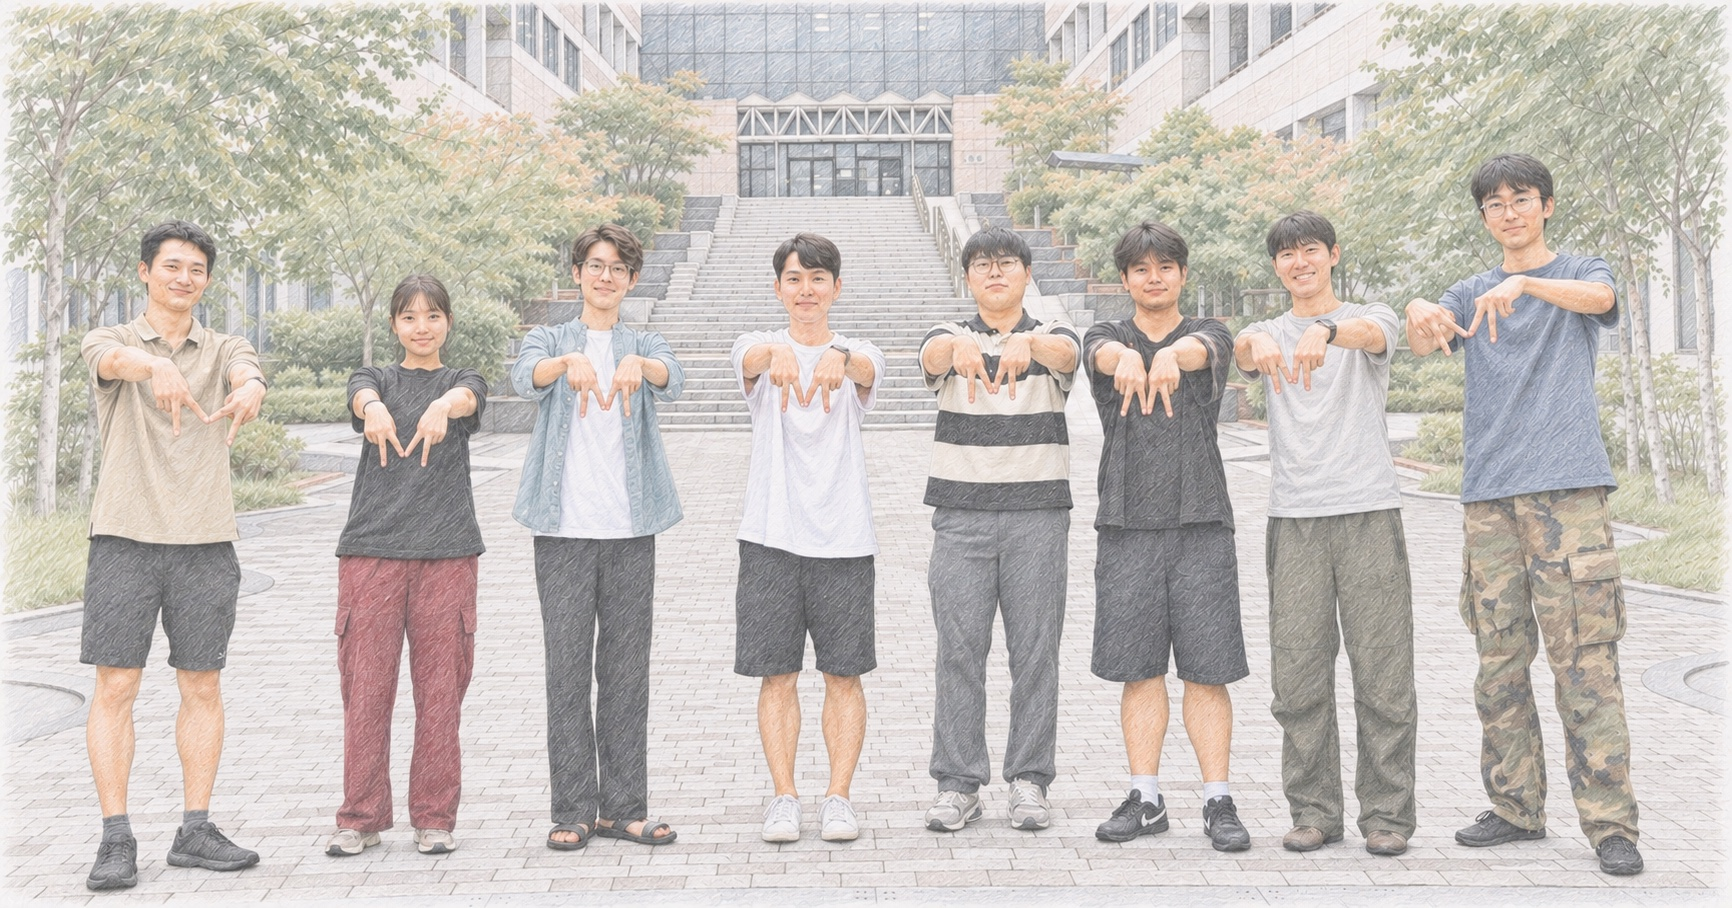
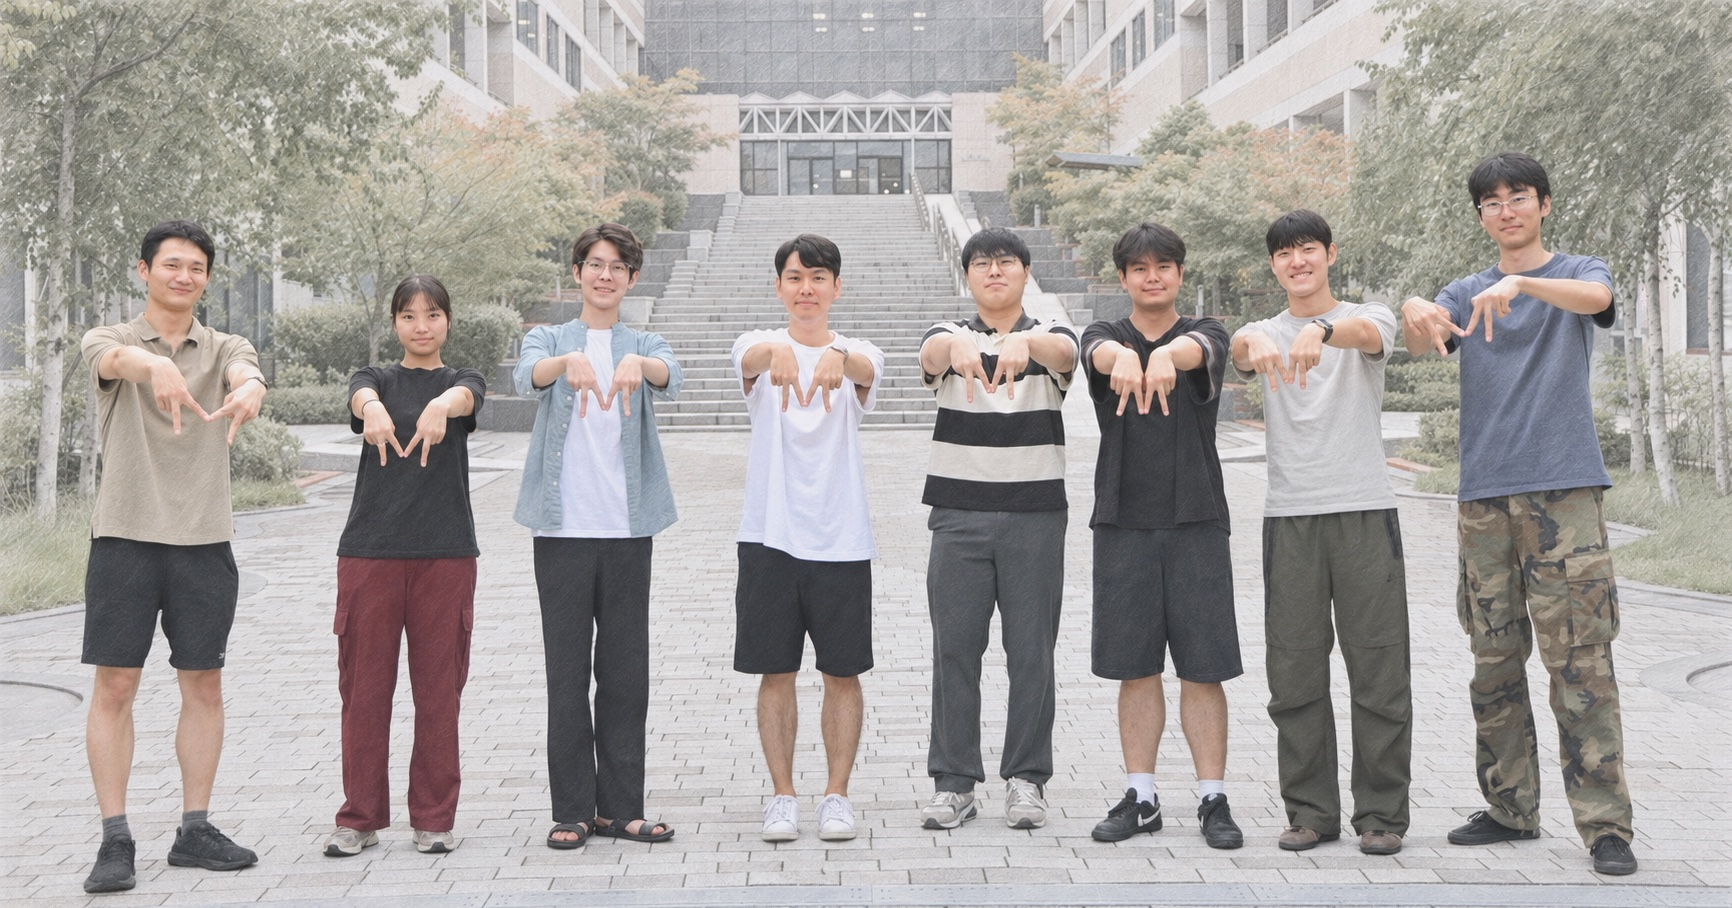
Keep home photo closer to original faces

diff --git a/AGENTS.md b/AGENTS.md
@@ -96,7 +96,7 @@ tools/               검사 스크립트(check_changelog.py: 기록·안건·서
 - **구분선은 꼭 필요할 때만 쓴다.** 절과 목록 줄은 간격으로 나누고 선을 긋지 않는다. 지금 남은 선은 메뉴 아래 하나와 꼬리말 위 경계 하나다.
 - **탭이나 버튼으로 내용을 바꾸는 요소는 바꿔도 가로 위치가 움직이지 않게 한다.** 칸과 글자의 가로 위치가 1px 도 움직이면 안 된다. 표는 모든 행을 기준으로 잰 칸 폭을 고정하고(Seminar, `scripts.html` 의 lock), 페이지 길이가 바뀌어도 스크롤바 자리는 `scrollbar-gutter: stable` 로 늘 비워 둔다. 고친 뒤에는 탭마다 요소 좌표를 재서 같은지 확인한다. 세로 길이는 맞추지 않는다. 내용이 짧은 탭을 가장 긴 탭 높이로 늘리면 카드가 빈 채로 길어져 휴대폰에서 어색하다(교수 2026-10-22, 이전 "세로 길이 고정" 규칙을 뺐다).
 - 글보다 그림을 먼저 쓴다. 같은 내용이면 카드, 아이콘, 그림으로 보여 주고 문장은 짧게 줄인다.
-- **Home 단체사진은 밝고 채도를 낮춘 색연필 스케치 톤을 유지한다.** 사진 단독이 아니라 실제 Home의 제목·그림과 아래 연구 분야를 함께 보며 검토한다. 인물은 알아볼 만큼 선명하게 두고 진한 그림자와 강한 색은 피한다(교수 2026-11-05, A와 D를 선호해 D 채택).
+- **Home 단체사진은 원본 인물과의 유사성을 먼저 지키고 밝고 채도를 낮춘 톤으로 맞춘다.** 얼굴·표정·안경·머리 모양을 원본과 비교하며, 스케치 질감은 배경과 옷에 약하게 준다. 사진 단독이 아니라 실제 Home의 제목·그림과 아래 연구 분야를 함께 검토한다. 진한 그림자와 강한 색은 피한다(교수 2026-11-05, D의 얼굴 변화 지적 후 원본 기반의 약한 효과로 수정).
 - **Home 의 News 는 첫 소식(MOAI Lab started)까지 전부 보인다.** `limit` 를 두지 않고, 교수가 따로 말할 때까지 이대로 둔다. News 가 아주 길어지면 그때 "All news" 모양과 함께 다시 정한다(교수 2026-11-03).
 - 랜딩 페이지(Home)가 가장 중요하다. 스크롤 없이 보이는 첫 화면에서 세 부류가 각자 다음에 누를 곳을 찾을 수 있어야 한다.
 - 리뷰 방법: 사람이든 리뷰어 에이전트든 세 부류를 하나씩 맡아 그 사람이 되어 사이트를 훑는다. 부류마다 (1) 30초 안에 찾고 싶은 것을 찾았나 (2) 매력적이지 않거나 헷갈린 곳 (3) 고칠 점 세 개를 적는다. 결과는 바로 반영하지 않고 `discussions/` 안건으로 올린다.

diff --git a/changelog/index.md b/changelog/index.md
@@ -5,7 +5,7 @@
 
 | 날짜 | 회차 | 작성자 | 대상 | 한 줄 요약 |
 | --- | --- | --- | --- | --- |
-| 2026-11-05 | [홈 단체사진 색연필 톤](2026-11-05-home-photo-pencil.md) | Sangwoo Mo(sangwoomo) | Home 사진, index.md, AGENTS.md | 밝은 중간안 D 적용, 실제 홈 맥락에서 검토 |
+| 2026-11-05 | [홈 단체사진 색연필 톤](2026-11-05-home-photo-pencil.md) | Sangwoo Mo(sangwoomo) | Home 사진, index.md, AGENTS.md | D 적용 뒤 원본 기반의 약한 스케치로 수정, 얼굴 유사성 우선 |
 | 2026-11-05 | [12~15강 핵심 중심 개선](2026-11-05-lectures-twelve-fifteen-concepts.md) | Sangwoo Mo (sangwoomo) | Data Engineering12~15강 | 역사·개념·예제 중심154장 HTML·PDF 사이트 선배포 |
 | 2026-11-05 | [pptx·docx PDF 는 MS Office 로](2026-11-05-ms-office-pdf.md) | Sangwoo Mo(sangwoomo) | tools/office_pdf.py, seminar_sync.py, drive_pdf.py, AGENTS.md | 맥에서는 PowerPoint·Word 로 굽고 LibreOffice 는 없거나 실패할 때만 |
 | 2026-11-05 | [11강 핵심 개념 중심 정리](2026-11-05-lecture11-concepts.md) | Sangwoo Mo (sangwoomo) | Data Engineering 11강 | 역사·개념·예제 중심78장판 HTML·PDF 교체 |

diff --git a/index.md b/index.md
@@ -15,7 +15,7 @@ sections:
   # 히어로 아래 랩 단체사진 띠(교수 2026-10-27). 사진은 assets/img/lab/, 높이와 자르는 위치는 theme.css 의 .section-photo
   - class: section-photo
     body: |
-      ![Colored-pencil sketch of MOAI Lab members making an M with their hands in front of a POSTECH building](assets/img/lab/group-2026.jpg)
+      ![MOAI Lab members making an M with their hands in front of a POSTECH building](assets/img/lab/group-2026.jpg)
   - title: "Our focus in 2026"
     type: focus
   # 실적 문장과 Paper Stella 미니(?mini=1, 별만 천천히 돈다)를 한 어두운 띠로 묶는다. 띠를 누르면 Publications > Map(Paper Stella 페이지, 교수 2026-11-03)
